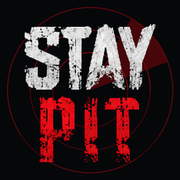
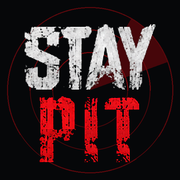
STAYPIT : lettres rouges plus nettes sur la bannière et les icônes (v7.33.1)
Claude-Session: https://claude.ai/code/session_01JEY3z9piJCXFyAaQnvY5d2

diff --git a/public/index.html b/public/index.html
@@ -1,5 +1,5 @@
 <!doctype html>
-<html lang="fr"><head><meta charset="utf-8"><meta name="viewport" content="width=device-width,initial-scale=1,viewport-fit=cover"><meta name="theme-color" content="#070809"><title>STAYPIT / Radar Metal</title><link rel="apple-touch-icon" href="/apple-touch-icon.png?v=5"><link rel="icon" type="image/png" sizes="32x32" href="/favicon-32.png?v=5"><link rel="manifest" href="/manifest.webmanifest"><meta name="apple-mobile-web-app-title" content="STAYPIT"><meta name="theme-color" content="#060709">
+<html lang="fr"><head><meta charset="utf-8"><meta name="viewport" content="width=device-width,initial-scale=1,viewport-fit=cover"><meta name="theme-color" content="#070809"><title>STAYPIT / Radar Metal</title><link rel="apple-touch-icon" href="/apple-touch-icon.png?v=6"><link rel="icon" type="image/png" sizes="32x32" href="/favicon-32.png?v=6"><link rel="manifest" href="/manifest.webmanifest"><meta name="apple-mobile-web-app-title" content="STAYPIT"><meta name="theme-color" content="#060709">
 <style>
 @import url('https://fonts.googleapis.com/css2?family=Barlow+Condensed:wght@500;600;700;800;900&family=Inter:wght@400;500;600;700;800&display=swap');
 :root{--bg:#050607;--panel:#0b0e12;--panel2:#0f1318;--line:#27303a;--red:#e50914;--red2:#ff2733;--white:#f5f5f5;--muted:#8e99a5;--soft:#c6ccd2;--max:1440px}
@@ -528,10 +528,10 @@ body.sl-radio-on .wrap{padding-bottom:150px}
 .profile-manage-lbl{font-size:12px;color:#8a939c;font-weight:700}
 .profile-del{margin-left:auto;border:1px solid #4a1d21;border-radius:999px;background:#120809;color:#ff8a92;font:700 12px Inter,Arial,sans-serif;padding:8px 12px;cursor:pointer;min-height:0}
 </style></head><body>
-<div id="authGate" class="auth-gate"><img class="auth-hero" src="/staypit-banner.jpg?v=3" alt="STAYPIT Radar Metal"><div class="auth-box"><div class="auth-sub">Votre espace personnel</div><h1 id="authTitle" class="auth-title">Se connecter</h1><form id="authForm" class="auth-form"><input id="authUser" name="username" type="text" autocomplete="username" placeholder="Nom d'utilisateur ou e-mail" minlength="3" maxlength="32" required><input id="authEmail" name="email" type="email" autocomplete="email" placeholder="Adresse e-mail" required><input id="authPass" name="password" type="password" autocomplete="current-password" placeholder="Mot de passe" minlength="6" required><div id="authError" class="auth-error"></div><button id="authSubmit" class="btn" type="submit">SE CONNECTER</button></form><div id="authForgot" class="auth-forgot"><button type="button" onclick="showForgotPassword()">Mot de passe ou nom d’utilisateur oublié ?</button></div><div id="forgotBox" class="auth-extra"><div class="auth-forgot-help">Indiquez l’adresse e-mail de votre compte : vous recevrez votre <strong>nom d’utilisateur</strong> et un lien pour choisir un <strong>nouveau mot de passe</strong>.</div><input id="forgotEmail" type="email" autocomplete="email" placeholder="Votre adresse e-mail"><button id="forgotSubmit" class="btn" type="button" onclick="requestPasswordReset()">ENVOYER LE LIEN</button><div id="forgotMsg" class="auth-email-note"></div><button type="button" class="mini" onclick="hideForgotPassword()">Retour à la connexion</button></div><div id="authNote" class="auth-note">Chaque compte possède ses propres groupes, photos, descriptions, actualités et concerts associés.</div><div class="auth-switch"><span id="authSwitchText">Pas encore de compte ?</span> <button id="authSwitch" type="button">Créer un compte</button></div><a class="auth-privacy" href="/confidentialite.html" target="_blank" rel="noopener">Confidentialité</a></div></div>
-<div id="resetGate" class="auth-gate hidden"><img class="auth-hero" src="/staypit-banner.jpg?v=3" alt="STAYPIT Radar Metal"><div class="auth-box"><div class="auth-sub">Récupération du compte</div><h1 class="auth-title">Nouveau mot de passe</h1><form id="resetForm" class="auth-form"><input id="resetPass" type="password" autocomplete="new-password" placeholder="Nouveau mot de passe" minlength="6" required><input id="resetPass2" type="password" autocomplete="new-password" placeholder="Confirmer le mot de passe" minlength="6" required><div id="resetError" class="auth-error"></div><button class="btn" type="submit">ENREGISTRER LE NOUVEAU MOT DE PASSE</button></form><div class="auth-note">Le lien de récupération est temporaire et utilisable une seule fois.</div></div></div>
+<div id="authGate" class="auth-gate"><img class="auth-hero" src="/staypit-banner.jpg?v=4" alt="STAYPIT Radar Metal"><div class="auth-box"><div class="auth-sub">Votre espace personnel</div><h1 id="authTitle" class="auth-title">Se connecter</h1><form id="authForm" class="auth-form"><input id="authUser" name="username" type="text" autocomplete="username" placeholder="Nom d'utilisateur ou e-mail" minlength="3" maxlength="32" required><input id="authEmail" name="email" type="email" autocomplete="email" placeholder="Adresse e-mail" required><input id="authPass" name="password" type="password" autocomplete="current-password" placeholder="Mot de passe" minlength="6" required><div id="authError" class="auth-error"></div><button id="authSubmit" class="btn" type="submit">SE CONNECTER</button></form><div id="authForgot" class="auth-forgot"><button type="button" onclick="showForgotPassword()">Mot de passe ou nom d’utilisateur oublié ?</button></div><div id="forgotBox" class="auth-extra"><div class="auth-forgot-help">Indiquez l’adresse e-mail de votre compte : vous recevrez votre <strong>nom d’utilisateur</strong> et un lien pour choisir un <strong>nouveau mot de passe</strong>.</div><input id="forgotEmail" type="email" autocomplete="email" placeholder="Votre adresse e-mail"><button id="forgotSubmit" class="btn" type="button" onclick="requestPasswordReset()">ENVOYER LE LIEN</button><div id="forgotMsg" class="auth-email-note"></div><button type="button" class="mini" onclick="hideForgotPassword()">Retour à la connexion</button></div><div id="authNote" class="auth-note">Chaque compte possède ses propres groupes, photos, descriptions, actualités et concerts associés.</div><div class="auth-switch"><span id="authSwitchText">Pas encore de compte ?</span> <button id="authSwitch" type="button">Créer un compte</button></div><a class="auth-privacy" href="/confidentialite.html" target="_blank" rel="noopener">Confidentialité</a></div></div>
+<div id="resetGate" class="auth-gate hidden"><img class="auth-hero" src="/staypit-banner.jpg?v=4" alt="STAYPIT Radar Metal"><div class="auth-box"><div class="auth-sub">Récupération du compte</div><h1 class="auth-title">Nouveau mot de passe</h1><form id="resetForm" class="auth-form"><input id="resetPass" type="password" autocomplete="new-password" placeholder="Nouveau mot de passe" minlength="6" required><input id="resetPass2" type="password" autocomplete="new-password" placeholder="Confirmer le mot de passe" minlength="6" required><div id="resetError" class="auth-error"></div><button class="btn" type="submit">ENREGISTRER LE NOUVEAU MOT DE PASSE</button></form><div class="auth-note">Le lien de récupération est temporaire et utilisable une seule fois.</div></div></div>
 <div class="sticky-shell">
-<header class="hero"><img class="hero-img" id="heroImg" src="/staypit-banner.jpg?v=3" alt="STAYPIT Radar Metal"><div class="radar-sweep" id="radarSweep" aria-hidden="true"><div class="radar-dim"></div><div class="radar-beam"></div><span class="radar-blip b1"></span><span class="radar-blip b2"></span><span class="radar-blip b3"></span></div></header>
+<header class="hero"><img class="hero-img" id="heroImg" src="/staypit-banner.jpg?v=4" alt="STAYPIT Radar Metal"><div class="radar-sweep" id="radarSweep" aria-hidden="true"><div class="radar-dim"></div><div class="radar-beam"></div><span class="radar-blip b1"></span><span class="radar-blip b2"></span><span class="radar-blip b3"></span></div></header>
 <div class="nav-wrap"><div class="wrap nav-container"><nav class="nav"><button class="active" data-s="radar"><span class="nav-icon"><i data-lucide="radar" aria-hidden="true"></i><b class="sl-nav-badge" data-badge="radar" hidden></b></span><span>Actus</span></button><button data-s="live"><span class="nav-icon"><i data-lucide="ticket" aria-hidden="true"></i><b class="sl-nav-badge" data-badge="live" hidden></b></span><span>Concerts</span></button><button data-s="clips"><span class="nav-icon"><i data-lucide="headphones" aria-hidden="true"></i></span><span>Écouter</span></button><button data-s="styles"><span class="nav-icon"><svg class="sl-explorer" viewBox="0 0 24 24" fill="none" stroke="currentColor" stroke-width="1.5" stroke-linecap="round" stroke-linejoin="round" aria-hidden="true"><path d="M17.81 3.75 19.67 1.5 22.0 2.29 18.71 4.56Z"/><path d="M11.37 10.59 9.7 7.12 6.71 9.0 7.75 11.47 2.0 15.44 7.38 17.45 9.36 22.5 12.01 16.17 14.26 15.37 12.58 11.67Z"/><path d="M17.93 3.85 11.64 10.83"/><path d="M18.59 4.45 12.31 11.43"/><path d="M8.2 13.39 10.12 15.12"/></svg></span><span>Groupes</span></button><button data-s="community"><span class="nav-icon"><i data-lucide="users-round" aria-hidden="true"></i><b class="sl-nav-badge" data-badge="community" hidden></b></span><span>Communauté</span></button></nav></div></div>
 </div>
 <div class="wrap top-controls">
@@ -1467,7 +1467,7 @@ async function helpGo(view){helpView=view;const box=$('helpBody'),title=$('helpT
   box.innerHTML=back+(SL_STANDALONE?'<div class="sl-inst-done">✓ STAYPIT est déjà ouvert depuis ton écran d’accueil.</div>':'')
    +`<div class="sl-inst-tabs"><button type="button" class="${tab==='ios'?'on':''}" onclick="helpInstallTab='ios';helpGo('install')">iPhone / iPad</button><button type="button" class="${tab==='android'?'on':''}" onclick="helpInstallTab='android';helpGo('install')">Android</button></div>`
    +(tab==='ios'?ios:android)
-   +`<div class="sl-inst-res"><img src="/apple-touch-icon.png?v=5" alt=""><div><b>L’icône STAYPIT apparaît</b><small>Ouvre STAYPIT depuis cette icône : plein écran, sans barre du navigateur. Il faudra te reconnecter une fois.</small></div></div>`;return}
+   +`<div class="sl-inst-res"><img src="/apple-touch-icon.png?v=6" alt=""><div><b>L’icône STAYPIT apparaît</b><small>Ouvre STAYPIT depuis cette icône : plein écran, sans barre du navigateur. Il faudra te reconnecter une fois.</small></div></div>`;return}
  if(view==='write'){title.textContent='Nous écrire';
   box.innerHTML=back+`<form id="helpForm" class="sl-help-form" autocomplete="off"><label>Sujet</label><div class="sl-help-topics">${['Question','Bug','Idée','Autre'].map((t,i)=>`<button type="button" class="${i===0?'on':''}" data-t="${t}">${t}</button>`).join('')}</div><label for="helpMsg">Ton message</label><textarea id="helpMsg" rows="6" maxlength="3000" placeholder="Décris ta question ou le problème rencontré…"></textarea><button type="submit" class="sl-news-ok" id="helpSend">Envoyer</button><p class="sl-help-note">Tu retrouveras la réponse dans <b>Aide › Mes messages</b>. Tu peux aussi écrire à <a href="mailto:contact@stayloud-radar.online">contact@stayloud-radar.online</a>.</p></form>`;
   box.querySelectorAll('.sl-help-topics button').forEach(b=>b.onclick=()=>{box.querySelectorAll('.sl-help-topics button').forEach(x=>x.classList.toggle('on',x===b))});
@@ -2047,7 +2047,7 @@ if('serviceWorker' in navigator)window.addEventListener('load',()=>navigator.ser
  };
  const nav=on=>`<div class="tr-nav">${[['radar','Actus'],['cal','Concerts'],['head','Écouter'],['guitar','Groupes'],['users','Communauté']].map(([i,t])=>`<span class="${t===on?'on':''}">${ICON[i]}<em>${t}</em></span>`).join('')}</div>`;
  const SLIDES=[
-  {t:'Bienvenue sur STAYPIT',p:'Ton radar métal personnel : les <b>actus</b> et les <b>sorties</b> de tes groupes, leurs <b>concerts</b> avec les <b>billets</b>, ton agenda et tes <b>setlists</b>, les <b>clips</b> et la <b>radio</b> métal, au même endroit.',v:`<div class="tr-screen tr-welcome"><div class="tr-ban"><img src="/staypit-banner.jpg?v=3" alt=""><div class="tr-sweep"></div></div><div class="tr-hint">Pour l’instant, aucun groupe n’est enregistré.</div></div>`},
+  {t:'Bienvenue sur STAYPIT',p:'Ton radar métal personnel : les <b>actus</b> et les <b>sorties</b> de tes groupes, leurs <b>concerts</b> avec les <b>billets</b>, ton agenda et tes <b>setlists</b>, les <b>clips</b> et la <b>radio</b> métal, au même endroit.',v:`<div class="tr-screen tr-welcome"><div class="tr-ban"><img src="/staypit-banner.jpg?v=4" alt=""><div class="tr-sweep"></div></div><div class="tr-hint">Pour l’instant, aucun groupe n’est enregistré.</div></div>`},
   {t:'1 · Ajoute tes groupes',p:'Va dans <b>Groupes</b>, tape le nom d’un groupe puis touche <b>+ Ajouter</b>. C’est grâce à tes groupes que STAYPIT trouve les actus, les albums, les concerts et les clips.',v:`<div class="tr-screen"><div class="tr-title">GROUPES</div><div class="tr-input"><span class="tr-typing">Gojira</span><i class="tr-caret"></i></div><div class="tr-suggest"><span class="tr-av"></span><b>Gojira</b><small>Death Metal</small></div><div class="tr-btn tr-press">+ AJOUTER</div>${nav('Groupes')}<div class="tr-finger tr-f-add"></div></div>`},
   {t:'2 · Actus et sorties',p:'<b>Actualités</b> : les articles sur tes groupes des 6 derniers mois. <b>Sorties</b> : leurs albums récents et à venir. Un <b>nouvel album</b> ? Une pastille rouge s’allume sur <b>Actus</b>.',v:`<div class="tr-screen"><div class="tr-title">ACTUS</div><div class="tr-seg tr-seg2 tr-seg-static"><span>Actualités</span><span class="on">Sorties</span></div><div class="tr-new">● NOUVEAU</div>${[['GOJIRA','Album · 12 mars 2027 · à venir'],['LANDMVRKS','The Darkest Place · 2025']].map(([b,x],i)=>`<div class="tr-card" style="animation-delay:${i*.35}s"><span class="tr-cover-sm"></span><div><em>${b}</em><b>${x}</b></div></div>`).join('')}${nav('Actus')}</div>`},
   {t:'3 · Les concerts',p:'<b>Mes groupes</b> : leurs concerts en France, premières parties comprises. <b>Autour de moi</b> : tous les concerts metal autour de ta <b>position</b> ou d’une <b>ville</b>, dans le rayon choisi. Un nouveau concert d’un de tes groupes ? Pastille rouge sur <b>Concerts</b>.',v:`<div class="tr-screen"><div class="tr-title">CONCERTS</div><div class="tr-seg"><span>Mes groupes</span><span>Autour de moi</span><span>Agenda</span><i class="tr-seg-on"></i></div><div class="tr-chips"><span>10 km</span><span>20 km</span><span class="on">50 km</span><span>100 km</span></div><div class="tr-ev"><div class="tr-date"><b>18</b>OCT</div><div><em>GOJIRA <i class="tr-mine">Ton groupe</i></em><b>Le Zénith · Nantes · 38 km</b></div></div><div class="tr-ev" style="animation-delay:.4s"><div class="tr-date"><b>09</b>NOV</div><div><em>ARCH ENEMY</em><b>Le Trabendo · Paris · 21 km</b></div></div>${nav('Concerts')}</div>`},

diff --git a/public/sw.js b/public/sw.js
@@ -2,8 +2,8 @@
 // Pages: always from the network (latest version); a clear offline page otherwise.
 // Images / icons: served from the cache, refreshed in the background.
 // The API and other sites are never cached here.
-const CACHE='staypit-v6';
-const SHELL=['/manifest.webmanifest','/icon-192.png','/icon-512.png','/apple-touch-icon.png','/favicon-32.png','/staypit-banner.jpg?v=3'];
+const CACHE='staypit-v7';
+const SHELL=['/manifest.webmanifest','/icon-192.png','/icon-512.png','/apple-touch-icon.png','/favicon-32.png','/staypit-banner.jpg?v=4'];
 const OFFLINE=`<!doctype html><html lang="fr"><head><meta charset="utf-8"><meta name="viewport" content="width=device-width,initial-scale=1"><title>STAYPIT – hors ligne</title><style>body{margin:0;min-height:100vh;display:grid;place-items:center;background:#060709;color:#e8ebee;font:16px/1.5 Inter,Arial,sans-serif;text-align:center;padding:24px}img{width:96px;height:96px;border-radius:22px}h1{font-size:20px;margin:18px 0 6px}p{color:#8a939c;margin:0 0 18px}button{border:0;border-radius:999px;background:#e50914;color:#fff;font:700 15px Inter,Arial,sans-serif;padding:12px 22px}</style></head><body><div><img src="/icon-192.png" alt=""><h1>Pas de connexion</h1><p>STAYPIT a besoin d’Internet pour trouver les actus et les concerts.<br>Vérifie ta connexion puis réessaie.</p><button onclick="location.reload()">Réessayer</button></div></body></html>`;
 
 self.addEventListener('install',e=>{

diff --git a/src/server.js b/src/server.js
@@ -230,7 +230,7 @@ app.post('/api/auth/reset-password',async(req,res)=>{
  }catch(e){res.status(400).json({error:e.message})}
 });
 
-app.get("/api/health",(_,res)=>res.json({ok:true,version:"7.33.0",mode:"manual-city-source-selection",d1:d1ConfigStatus()}));
+app.get("/api/health",(_,res)=>res.json({ok:true,version:"7.33.1",mode:"manual-city-source-selection",d1:d1ConfigStatus()}));
 app.get("/api/artists",requireAuth,(req,res)=>res.json({artists:getArtists(req.user.id)}));
 app.get("/api/artists/:id/profile",requireAuth,async(req,res)=>{try{
  const a=ownedArtist(req,req.params.id);if(!a)return res.status(404).json({error:"introuvable"});

diff --git a/docs/notes/V7.33.1-NOTES.md b/docs/notes/V7.33.1-NOTES.md
@@ -1,0 +1,4 @@
+# V7.33.1 — Lettres rouges plus nettes
+
+- Bannière et icônes : les lettres rouges « PIT » sont plus nettes (contours durcis et légère accentuation). Le graphisme d’origine est gardé.
+- Cache du service worker : `staypit-v7`.
